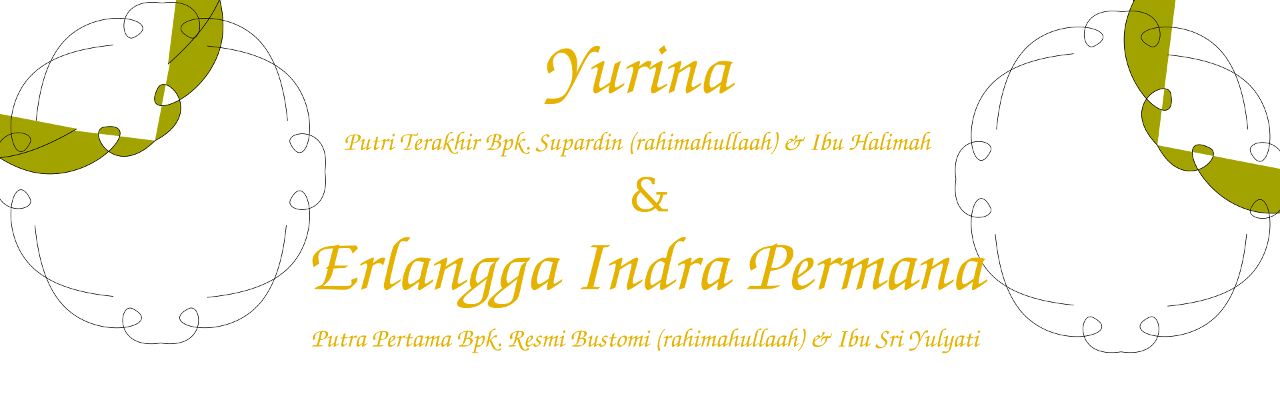
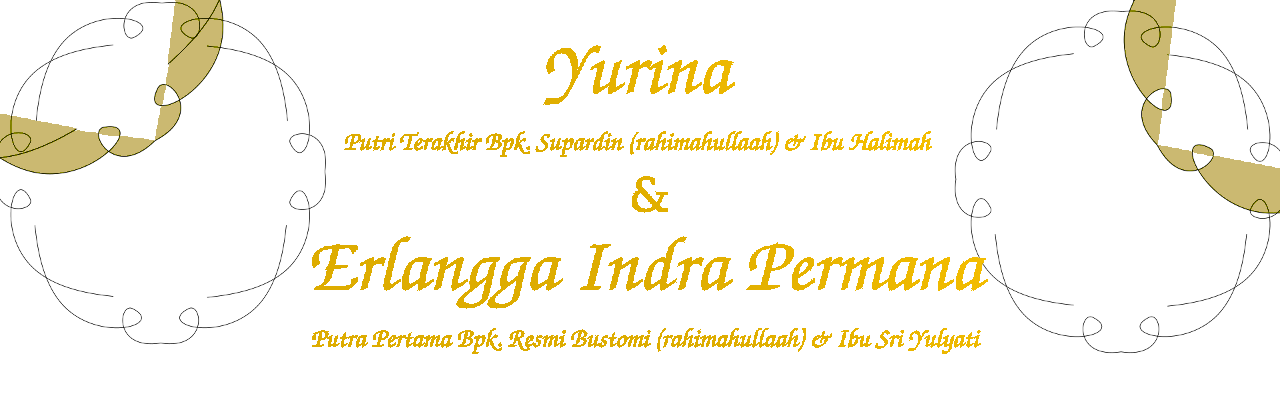
ubah warna

diff --git a/index.html b/index.html
@@ -83,9 +83,11 @@
 			content_lokasi.style.display = "none";
 			content_lokasi.style.visibility = "hidden";
 			jadwal.style.cursor = "default";
-			jadwal.style.background = "#009900";
+			// jadwal.style.background = "#009900";
+			jadwal.setAttribute("class","active");
 			lokasi.style.cursor = "cursor";
-			lokasi.style.background = "#008800";
+			// lokasi.style.background = "#008800";
+			lokasi.setAttribute("class","");
 		});
 		lokasi.addEventListener('click',function (event){
 			content_lokasi.style.visibility = "visible";
@@ -93,9 +95,11 @@
 			content_acara.style.display = "none";
 			content_acara.style.visibility = "hidden";
 			lokasi.style.cursor = "default";
-			lokasi.style.background = "#009900";
+			lokasi.setAttribute("class","active");
+			// lokasi.style.background = "#009900";
 			jadwal.style.cursor = "cursor";
-			jadwal.style.background = "#008800";
+			jadwal.setAttribute("class","");
+			// jadwal.style.background = "#008800";
 		});
 	</script>
 </body>

diff --git a/index.css b/index.css
@@ -36,7 +36,11 @@ body{
     /*default outside*/
     /*(specifies whether the list-item markers should appear inside or outside the content flow)*/
 
-    background: #008800;
+    background: #a0892c; /* For browsers that do not support gradients */
+    background: linear-gradient(#a0892c, #c2ab4f); /* Standard syntax (must be last) */
+    background: -ms-linear-gradient(#a0892c, #c2ab4f); /* Standard syntax (must be last) */
+    background: -webkit-linear-gradient(#a0892c, #c2ab4f); /* Standard syntax (must be last) */
+    background: -moz-linear-gradient(#a0892c, #c2ab4f); /* Standard syntax (must be last) */
     position: relative;
     top: 0px;
     z-index: 1;
@@ -46,6 +50,9 @@ body{
     width: 100%;
     border-collapse: collapse;
     border-bottom: 5px black solid;
+}
+#menu > tbody > tr > .active{
+    background: #a0892c;
 }
 
 td#lokasi{
